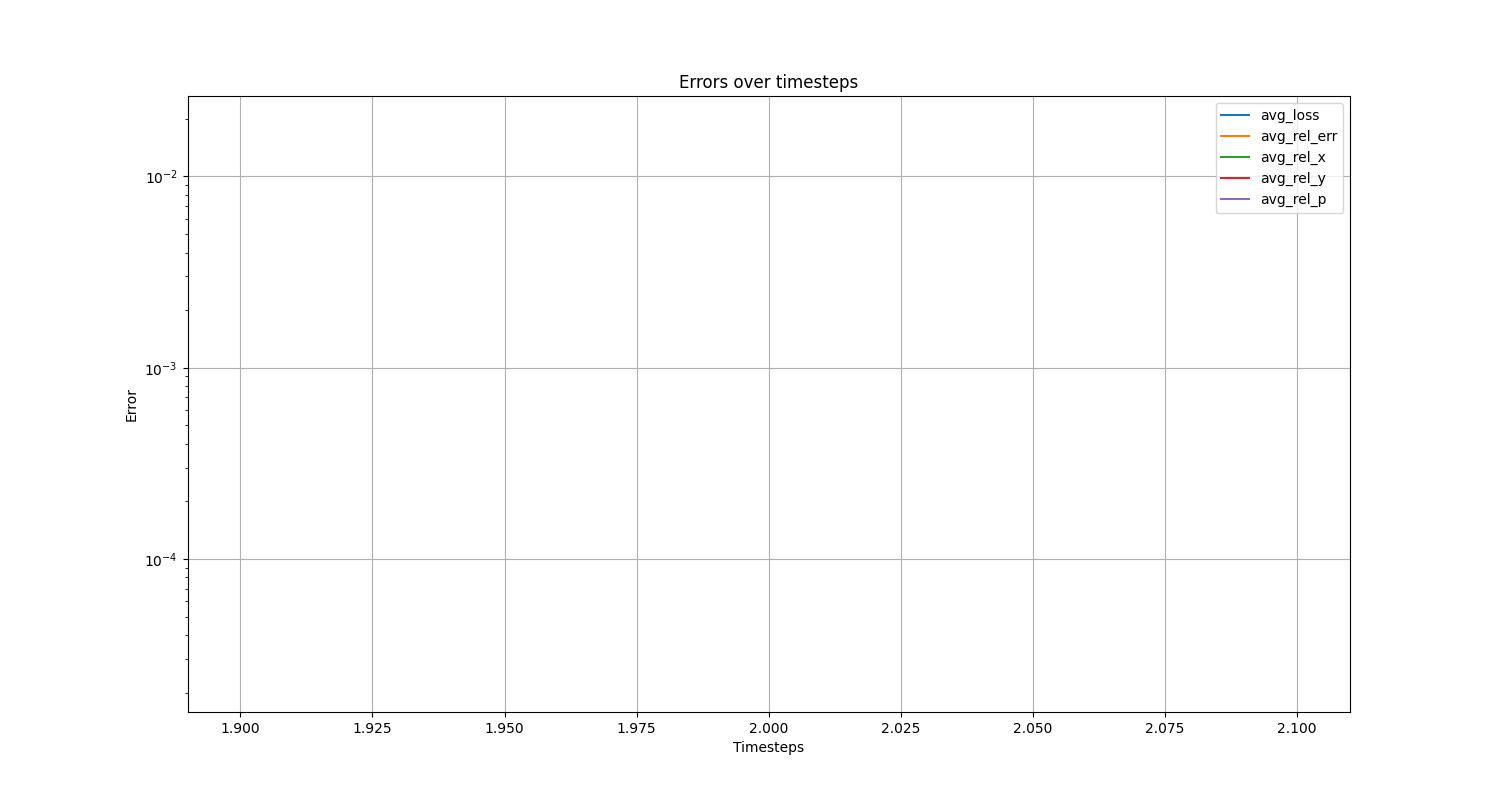
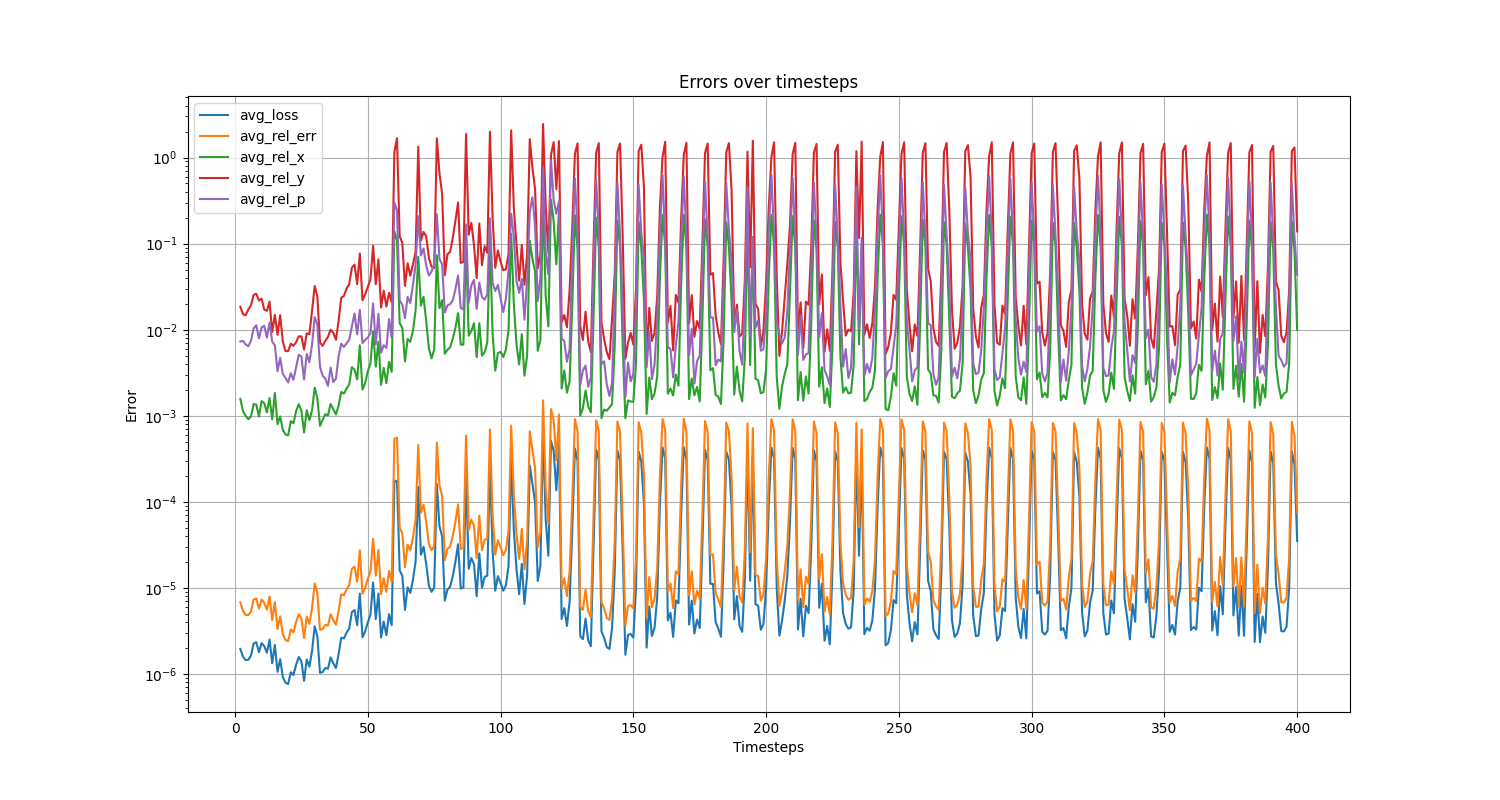
drop gif

diff --git a/interpolate_error_over_time.py b/interpolate_error_over_time.py
@@ -1,0 +1,154 @@
+import numpy as np
+import matplotlib.pyplot as plt
+from new_train import Mesh_ReducedTrainer
+from physicsnemo.distributed.manager import DistributedManager
+from physicsnemo.launch.logging import (
+    PythonLogger,
+    RankZeroLoggingWrapper,
+)
+import torch
+import os
+import wandb as wb
+from physicsnemo.launch.utils import load_checkpoint
+from tqdm import tqdm
+from torch.cuda.amp import GradScaler, autocast
+from physicsnemo.datapipes.gnn.utils import load_json
+
+class AttrDict(dict):
+    def __init__(self, *args, **kwargs):
+        super(AttrDict, self).__init__(*args, **kwargs)
+        self.__dict__ = self
+
+def test(x, y, criterion=torch.nn.MSELoss()):
+    loss = criterion(x, y)
+    relative_error = (
+        loss / criterion(y, y * 0.0).detach()
+    )
+    relative_error_s_record = []
+    for i in range(3):
+        loss_s = criterion(x[:, i], y[:, i])
+        relative_error_s = (
+            loss_s
+            / criterion(
+                y[:, i], y[:, i] * 0.0
+            ).detach()
+        )
+        relative_error_s_record.append(relative_error_s)
+    return loss, relative_error, relative_error_s_record
+
+node_stats = load_json("dataset/node_stats.json")
+
+def denormalize(invar, mu, std):
+    """denormalizes a tensor"""
+    denormalized_invar = invar * std.expand(invar.size()) + mu.expand(invar.size())
+    return denormalized_invar
+
+config = AttrDict({
+            #'ckpt_path': "checkpoints/test_embedding_evo_triplet",
+            'ckpt_path': "checkpoints/best",
+            'ckpt_name': f"model_l2_best.pt",
+            'batch_size': 1,
+            'epochs': 300,
+            'lr':  0.00001,
+            'lr_decay_rate': 0.9999991,
+            'jit': False,
+            'amp': True,
+            'watch_model': False,
+            'num_input_features': 3,
+            'num_edge_features': 3,
+            'num_output_features': 3,
+            'output_encode_dim': 3,
+            'processor_size': 15,
+
+            'num_layers_node_processor': 2,
+            'num_layers_edge_processor': 2,
+            'hidden_dim_processor': 128,
+            'hidden_dim_node_encoder': 128,
+            'num_layers_node_encoder': 2,
+            'hidden_dim_edge_encoder': 128,
+            'num_layers_edge_encoder': 2,
+            'hidden_dim_node_decoder': 128,
+            'num_layers_node_decoder': 2,
+            'k': 3,
+        })
+
+addr = os.getenv("MASTER_ADDR", "localhost")
+port = os.getenv("MASTER_PORT", "12355")
+DistributedManager._shared_state["_is_initialized"] = True
+np.random.seed(seed=DistributedManager().rank)
+dist = DistributedManager()
+logger = PythonLogger("main")  # General python logger
+rank_zero_logger = RankZeroLoggingWrapper(logger, dist)  # Rank 0 logger
+
+latent = np.load(f'latent/latent_l2tripletbest.npy')
+#latent = np.load(f'latent/latent_l2best.npy') # (11, 401, 2, 3)
+position_mesh = torch.from_numpy(np.loadtxt(f"dataset/meshPosition_all.txt")).to(dist.device)
+position_pivotal = torch.from_numpy(np.loadtxt(f"dataset/meshPosition_pivotal_l2.txt")).to(dist.device)
+gt = np.load('./latent/test_data.npy', allow_pickle=True) # (11, 401, 1699, 3)
+
+idx = np.lib.stride_tricks.sliding_window_view(np.arange(len(gt[0])),window_shape=3)
+x_t2 = torch.from_numpy(gt[:, idx[:,2]]).cpu() # 11, 399, 1699, 3
+zt, zt1 = latent[:,idx[:,0]], latent[:,idx[:,1]]
+z_hat_t2 = torch.from_numpy((2 * zt1 - zt)).cpu() # 11, 399, 2, 3
+ 
+trainer = Mesh_ReducedTrainer(wb, dist, rank_zero_logger, config)
+trainer.epoch_init = load_checkpoint(
+            os.path.join(config.ckpt_path, config.ckpt_name),
+            models=trainer.model,
+            optimizer=trainer.optimizer,
+            scheduler=trainer.scheduler,
+            scaler=trainer.scaler,
+            device=dist.device,
+        )
+
+for graph in trainer.dataloader_test:
+    break
+
+#x_hats = torch.zeros_like(x_t2, device='cpu') # 11, 399, 1699, 3
+x_hats = torch.from_numpy(np.load('interpolation/reconstruction_triplet.npy')).cpu() # 11, 399, 1699, 3
+graph = graph.to(trainer.dist.device)
+loss_total = 0
+relative_error_total = 0
+relative_error_s_total = []
+n = len(x_hats[0])
+avg_losses = []
+avg_relative_errors = []
+avg_relative_error_ss = []
+with torch.no_grad():
+    with autocast(enabled=trainer.C.amp):
+        for i in range(n): # timestep
+            loss_total = 0
+            relative_error_total = 0
+            relative_error_s_total = []
+            for j in range(1): # traj
+                loss, relative_error, relative_error_s = test(x_hats[j,i], x_t2[j,i])
+                relative_error_s = [x.cpu() for x in relative_error_s]
+                relative_error_s_total.append(relative_error_s)
+                loss_total = loss_total + loss
+                relative_error_total = relative_error_total + relative_error
+            avg_relative_error = relative_error_total / n
+            avg_loss = loss_total / n
+            avg_relative_error_s = np.array(relative_error_s_total).mean(axis=0)
+
+            avg_losses.append(avg_loss)
+            avg_relative_errors.append(avg_relative_error)
+            avg_relative_error_ss.append(avg_relative_error_s)
+
+            print(avg_loss,avg_relative_error, avg_relative_error_s)
+
+avg_relative_error_ss = np.array(avg_relative_error_ss)
+
+times = np.arange(2,len(avg_losses) + 2)
+plt.figure(figsize=(15,8))
+plt.semilogy(times, avg_losses,label='avg_loss')
+plt.semilogy(times,avg_relative_errors,label='avg_rel_err')
+plt.semilogy(times,avg_relative_error_ss[:,0],label='avg_rel_x')
+plt.semilogy(times,avg_relative_error_ss[:,1],label='avg_rel_y')
+plt.semilogy(times,avg_relative_error_ss[:,2],label='avg_rel_p')
+plt.legend()
+plt.grid()
+plt.xlabel('Timesteps')
+plt.ylabel('Error')
+plt.title('Errors over timesteps')
+plt.savefig('err_ot_90.png')
+plt.show()
